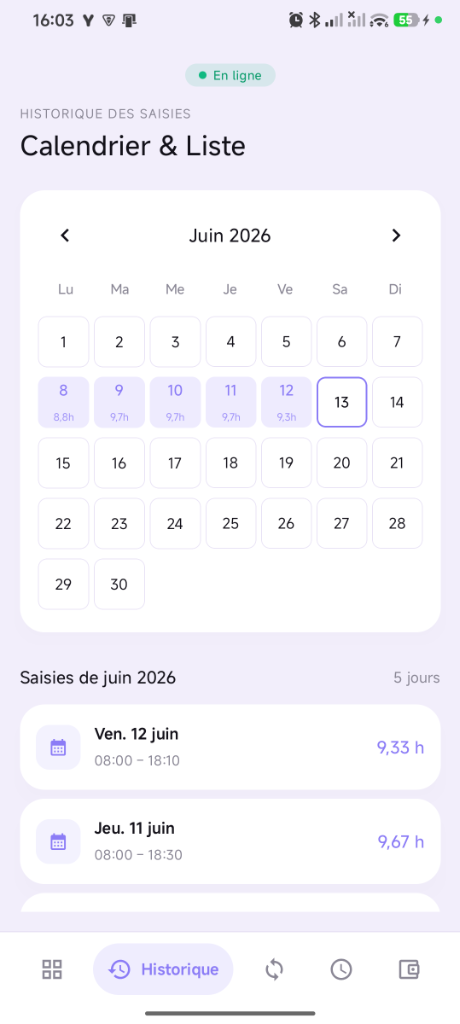
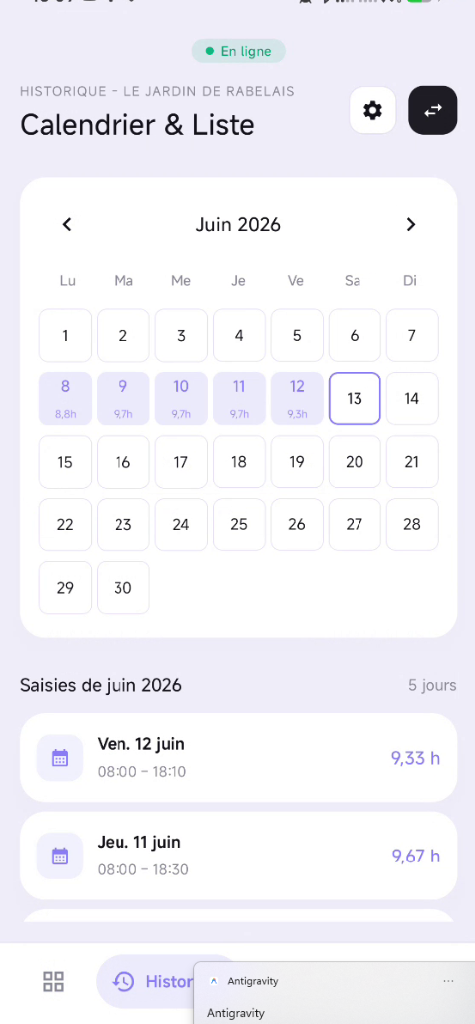
Clean view headers by removing job name and update README with alternating layout

diff --git a/app/src/main/java/com/benjamin/salarytracker/AutoEntryScreen.kt b/app/src/main/java/com/benjamin/salarytracker/AutoEntryScreen.kt
@@ -69,7 +69,7 @@ fun AutoEntryScreen(
                     verticalAlignment = Alignment.CenterVertically
                 ) {
                     Column(modifier = Modifier.weight(1f)) {
-                        Text("AUTOMATISATION - ${job.name.uppercase()}", color = InkMuted, fontSize = 11.sp, letterSpacing = 1.2.sp)
+                        Text("AUTOMATISATION", color = InkMuted, fontSize = 11.sp, letterSpacing = 1.2.sp)
                         Text("Saisie automatique", color = Ink, fontSize = 24.sp, fontWeight = FontWeight.Bold)
                     }
                     SquareIconButton(Icons.Default.Settings, onClick = onSettings, active = false)

diff --git a/app/src/main/java/com/benjamin/salarytracker/HistoryScreen.kt b/app/src/main/java/com/benjamin/salarytracker/HistoryScreen.kt
@@ -75,7 +75,7 @@ fun HistoryScreen(
                     verticalAlignment = Alignment.CenterVertically
                 ) {
                     Column(modifier = Modifier.weight(1f)) {
-                        Text("HISTORIQUE - ${job.name.uppercase()}", color = InkMuted, fontSize = 11.sp, letterSpacing = 1.2.sp)
+                        Text("HISTORIQUE", color = InkMuted, fontSize = 11.sp, letterSpacing = 1.2.sp)
                         Text("Calendrier & Liste", color = Ink, fontSize = 24.sp, fontWeight = FontWeight.Bold)
                     }
                     SquareIconButton(Icons.Default.Settings, onClick = onSettings, active = false)

diff --git a/app/src/main/java/com/benjamin/salarytracker/StatsScreen.kt b/app/src/main/java/com/benjamin/salarytracker/StatsScreen.kt
@@ -92,7 +92,7 @@ fun StatsScreen(
                     verticalAlignment = Alignment.CenterVertically
                 ) {
                     Column(modifier = Modifier.weight(1f)) {
-                        Text("ANALYSES - ${job.name.uppercase()}", color = InkMuted, fontSize = 11.sp, letterSpacing = 1.2.sp)
+                        Text("ANALYSES", color = InkMuted, fontSize = 11.sp, letterSpacing = 1.2.sp)
                         Text(if (isHours) "Stats horaires" else "Stats salaire", color = Ink, fontSize = 24.sp, fontWeight = FontWeight.Bold)
                     }
                     SquareIconButton(Icons.Default.Settings, onClick = onSettings, active = false)

diff --git a/README.md b/README.md
@@ -8,15 +8,15 @@ L'application intègre des technologies d'Intelligence Artificielle (Gemini API)
 
 ## 📸 Aperçu & Fonctionnalités de l'application
 
-| Écran / Fonctionnalité | Rendu Visuel |
-| :--- | :---: |
-| ### 📊 Tableau de Bord Général<br><br>Votre hub principal affichant la progression de votre contrat en cours (jours, semaines et heures réelles travaillées), vos objectifs de gains mensuels avec une jauge animée haut de gamme, et des actions rapides d'ajout. | <img src="media/app_dashboard.png" width="300" alt="Tableau de bord"/> |
-| ### 📅 Historique Interactif Dédié<br><br>Visualisez vos journées travaillées et vos congés sous forme de grille mensuelle interactive de style calendrier. Un résumé des saisies mensuelles est disponible sous la grille avec raccourcis d'édition rapides. | <img src="media/app_history.png" width="300" alt="Historique calendrier"/> |
-| ### 🤖 Saisie Automatique & Règles<br><br>Configurez des règles de génération intelligente pour renseigner automatiquement vos heures de travail récurrentes sur les journées cibles sans action manuelle répétitive. | <img src="media/app_auto.png" width="300" alt="Automatisation"/> |
-| ### 📈 Statistiques Horaires<br><br>Analysez votre répartition horaire au cours des derniers mois. Affiche le total de vos heures réelles travaillées, vos heures supplémentaires (crête) accumulées et le solde courant de votre livret d'heures. | <img src="media/app_stats_hours.png" width="300" alt="Analyses horaires"/> |
-| ### 💵 Statistiques Financières<br><br>Suivez vos gains nets cumulés estimés. L'application évalue vos revenus à venir et vous permet de comparer en un clic vos estimations avec vos bulletins de paie importés. | <img src="media/app_stats_salary.png" width="300" alt="Analyses salaire"/> |
-| ### ⚙️ Paramètres & Intelligence Artificielle<br><br>Gérez vos préférences utilisateur, changez l'icône de l'application, configurez les rappels de notifications quotidiens intelligents, ou renseignez votre clé API Gemini pour l'OCR intelligent de vos fiches de paie. | <img src="media/app_settings.png" width="300" alt="Paramètres de l'application"/> |
-| ### 💼 Sélection Multi-Contrats<br><br>Gérez l'ensemble de vos contrats actifs de façon cloisonnée. Les contrats passés ou terminés peuvent être facilement archivés d'un clic pour conserver une vue dégagée. | <img src="media/app_selection.png" width="300" alt="Choix du contrat"/> |
+| | |
+| :--- | :--- |
+| **📊 Tableau de Bord Général**<br><br>Votre hub principal affichant la progression de votre contrat en cours (jours, semaines et heures réelles travaillées), vos objectifs de gains mensuels avec une jauge animée haut de gamme, et des actions rapides d'ajout. | <img src="media/app_dashboard.png" width="260" alt="Tableau de bord"/> |
+| <img src="media/app_history.png" width="260" alt="Historique calendrier"/> | **📅 Historique Interactif Dédié**<br><br>Visualisez vos journées travaillées et vos congés sous forme de grille mensuelle interactive de style calendrier. Un résumé des saisies mensuelles est disponible sous la grille avec raccourcis d'édition rapides. |
+| **🤖 Saisie Automatique & Règles**<br><br>Configurez des règles de génération intelligente pour renseigner automatiquement vos heures de travail récurrentes sur les journées cibles sans action manuelle répétitive. | <img src="media/app_auto.png" width="260" alt="Automatisation"/> |
+| <img src="media/app_stats_hours.png" width="260" alt="Analyses horaires"/> | **📈 Statistiques Horaires**<br><br>Analysez votre répartition horaire au cours des derniers mois. Affiche le total de vos heures réelles travaillées, vos heures supplémentaires (crête) accumulées et le solde courant de votre livret d'heures. |
+| **💵 Statistiques Financières**<br><br>Suivez vos gains nets cumulés estimés. L'application évalue vos revenus à venir et vous permet de comparer en un clic vos estimations avec vos bulletins de paie importés. | <img src="media/app_stats_salary.png" width="260" alt="Analyses salaire"/> |
+| <img src="media/app_settings.png" width="260" alt="Paramètres de l'application"/> | **⚙️ Paramètres & Intelligence Artificielle**<br><br>Gérez vos préférences utilisateur, changez l'icône de l'application, configurez les rappels de notifications quotidiens de saisie, ou renseignez votre clé API Gemini pour l'import intelligent de vos notes et fiches de paie. |
+| **💼 Sélection Multi-Contrats**<br><br>Gérez l'ensemble de vos contrats actifs de façon cloisonnée. Changez de contrat à la volée depuis n'importe quel écran du dock, et créez de nouveaux jobs facilement. | <img src="media/app_selection.png" width="260" alt="Choix du contrat"/> |
 
 ---
 
@@ -33,7 +33,7 @@ L'application intègre des technologies d'Intelligence Artificielle (Gemini API)
 ## 📦 Compilation & Installation locale
 
 ### Prérequis
-- Java JDK 17+
+- Java JDK 17+ (par ex. configuré via Android Studio JBR)
 - Android SDK (API 26+)
 
 ### Compiler l'APK de Test (Optimisé)